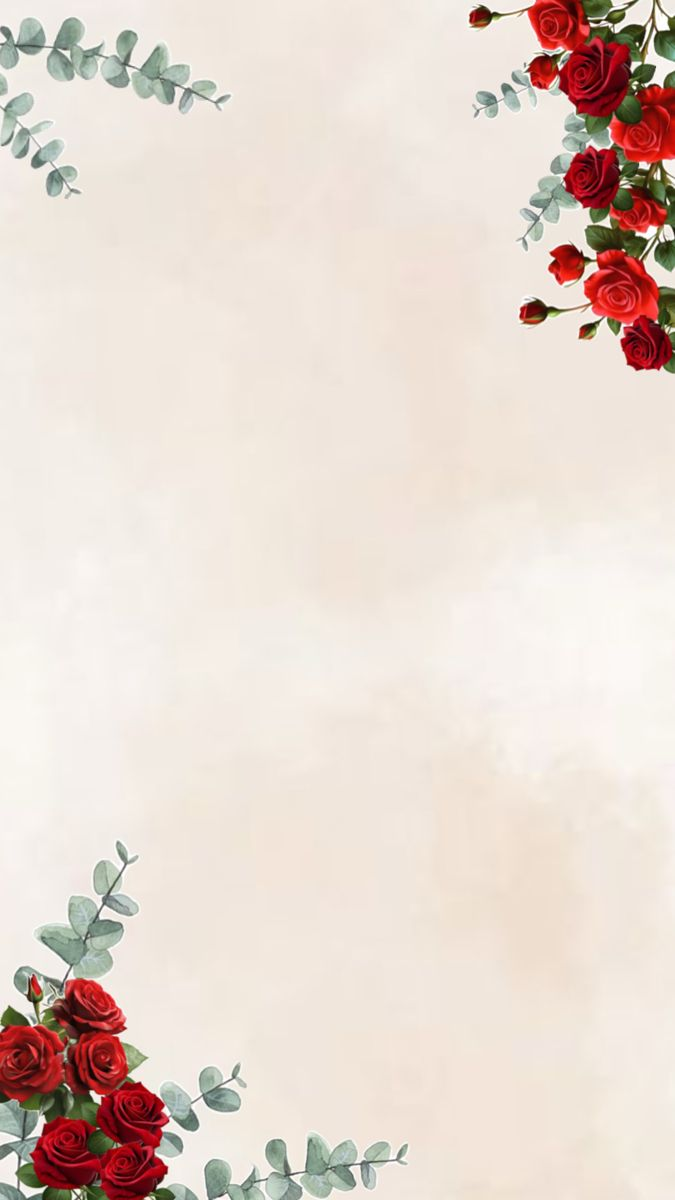
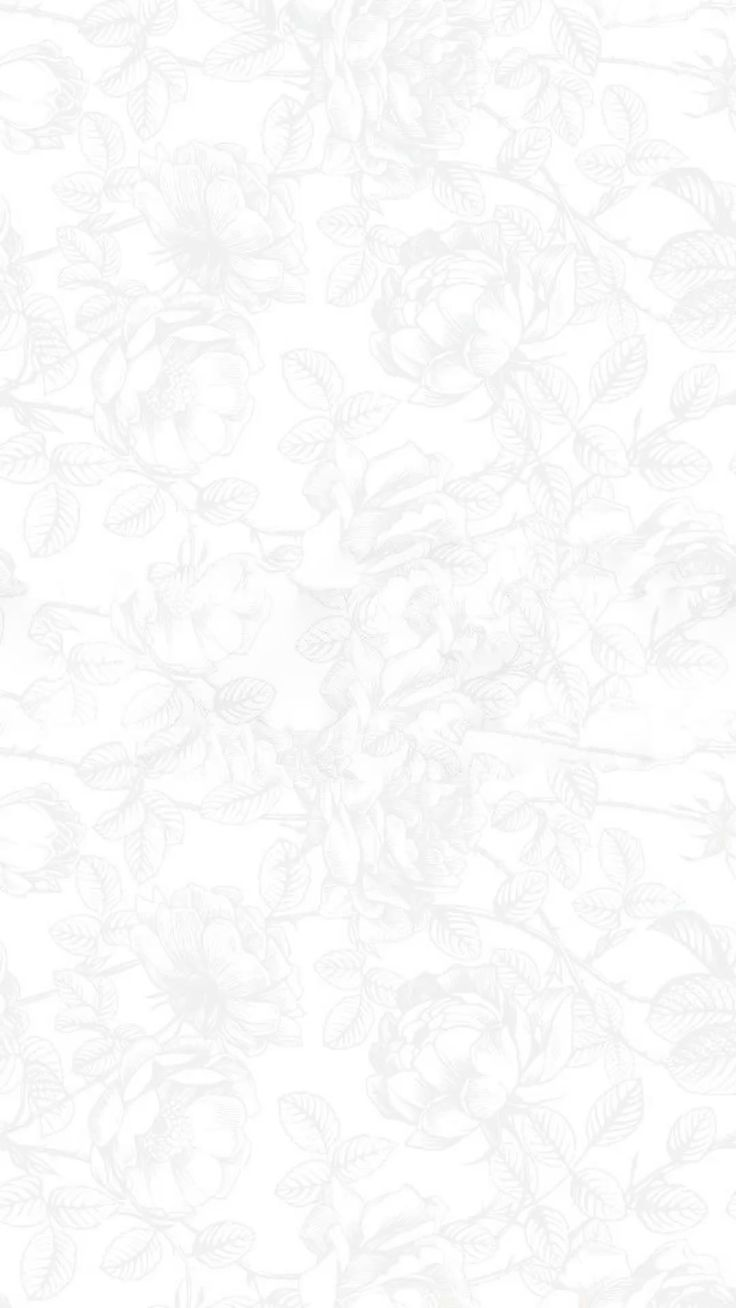
update

diff --git a/templates/basicblack/basicblack.html b/templates/basicblack/basicblack.html
@@ -134,7 +134,7 @@
 .subtitle-top2 {
     font-size: 0.75rem;
     letter-spacing: 3px;
-    color: #171616;
+    color: #d5c29d;
     text-transform: uppercase;
 
     text-align: center;
@@ -143,7 +143,7 @@
 .main-title2 {
       font-family: 'Bilbo Swash Caps', cursive;
     font-size: 2.4rem;
-    color: #171616;
+    color: #d5c29d;
     margin: 10px 0 20px;
     text-align: center;
 }
@@ -1108,7 +1108,7 @@ body {
 
 /* Pastikan Inner Border juga Center */
 .event-inner-border {
-    /* border: 1px solid #171616;
+    /* border: 1px solid #d5c29d;
     border-radius: 35px 3px 35px 3px; */
     padding: 50px 20px;
     display: flex;
@@ -1121,7 +1121,7 @@ body {
 .ribbon-date {
     font-family: Andada, serif;
     padding: 10px 20px;
-    color: #171616;
+    color: #d5c29d;
     display: inline-block;
     width: 90%;
    margin-bottom: 20px;
@@ -1129,7 +1129,7 @@ body {
 
 .event-item-list {
     font-family: Abel, sans-serif;
-     color: #171616;
+     color: #d5c29d;
     padding: 15px 0;
     margin-bottom: 15px;
     display: flex;
@@ -1141,13 +1141,13 @@ body {
 .event-row {
     font-family: Andada, serif;
     font-size: 1rem;
-     color: #171616;
+     color: #d5c29d;
     display: block;
     margin-bottom: 5px;
 }
 
 .event-row b {
-     color: #171616;
+     color: #d5c29d;
 }
 
 /* --- TOMBOL MAPS --- */
@@ -1440,7 +1440,7 @@ max-width: 450px;
     margin-top: 50px; /* Ubah angka px sesuai keinginan Anda */
           margin-bottom: 50px;
     background-image: url("https://file.puredayinvitation.com/templates/basicblack/bg3.jpg");
-    border: 2px solid #e0969e;
+    border: 2px solid #d5c29d;
     border-radius: 20px; 
     overflow: hidden;
     padding: 12px;
@@ -1745,7 +1745,7 @@ max-width: 450px;
     display: block;
     font-size: 0.9rem;
     font-family: Andada, serif;
-    color: #171616;
+    color: #d5c29d;
     margin-bottom: 8px;
     font-weight: 500;
 }
@@ -1753,12 +1753,12 @@ max-width: 450px;
 /* Input & Textarea sesuai gambar */
 #comment-name-input, 
 #comment-message-input {
-    color: #171616;
+    color: #d5c29d;
     width: 100%;
     padding: 12px 15px;
     border: 1px solid transparent;
     border-radius: 10px;
-    border-color: #171616;
+    border-color: #d5c29d;
     background: rgba(255, 255, 255, 0);
     box-shadow: 0 4px 10px rgba(0,0,0,0.03);
     font-family: Andada, serif;
@@ -1885,7 +1885,7 @@ background-image: url("https://file.puredayinvitation.com/templates/basicblack/b
 .comments-scroll-box > div, 
 .comment-item {
     background: rgba(255, 255, 255, 0.88); 
-    border: 1px solid #171616;
+    border: 1px solid #d5c29d;
     border-radius: 15px;
   padding:-42px 15px;
   padding-left: 20px !important;
@@ -1903,7 +1903,7 @@ background-image: url("https://file.puredayinvitation.com/templates/basicblack/b
 .comment-name {
     font-family: Andada, serif;
     font-size: 0.8rem;
-    color: #171616;
+    color: #151514;
     font-weight: 700;
     display: inline; /* Biar sejajar */
     margin-right: 10px; /* Jarak antara nama dan status */
@@ -1918,7 +1918,7 @@ background-image: url("https://file.puredayinvitation.com/templates/basicblack/b
         font-size: 0.7rem !important;
         background: transparent !important;
         border: none !important;
-        color: #171616 !important;
+        color: #151514 !important;
         text-transform: uppercase;
     }
 
@@ -1927,7 +1927,7 @@ background-image: url("https://file.puredayinvitation.com/templates/basicblack/b
 .comment-text {
     font-family: Andada, serif;
     font-size: 0.7rem;
-    color: #171616;
+    color: #151514;
   margin: 10px 0; 
     /* Line-height merapatkan jarak antar baris kalimat */
     line-height: 1.2;
@@ -1941,7 +1941,7 @@ background-image: url("https://file.puredayinvitation.com/templates/basicblack/b
 .comment-date {
     font-family: Andada, serif;
     text-align: right; 
-    color: #171616;
+    color: #151514;
     margin-top: 2px;
     width: 100%;
     display: block;